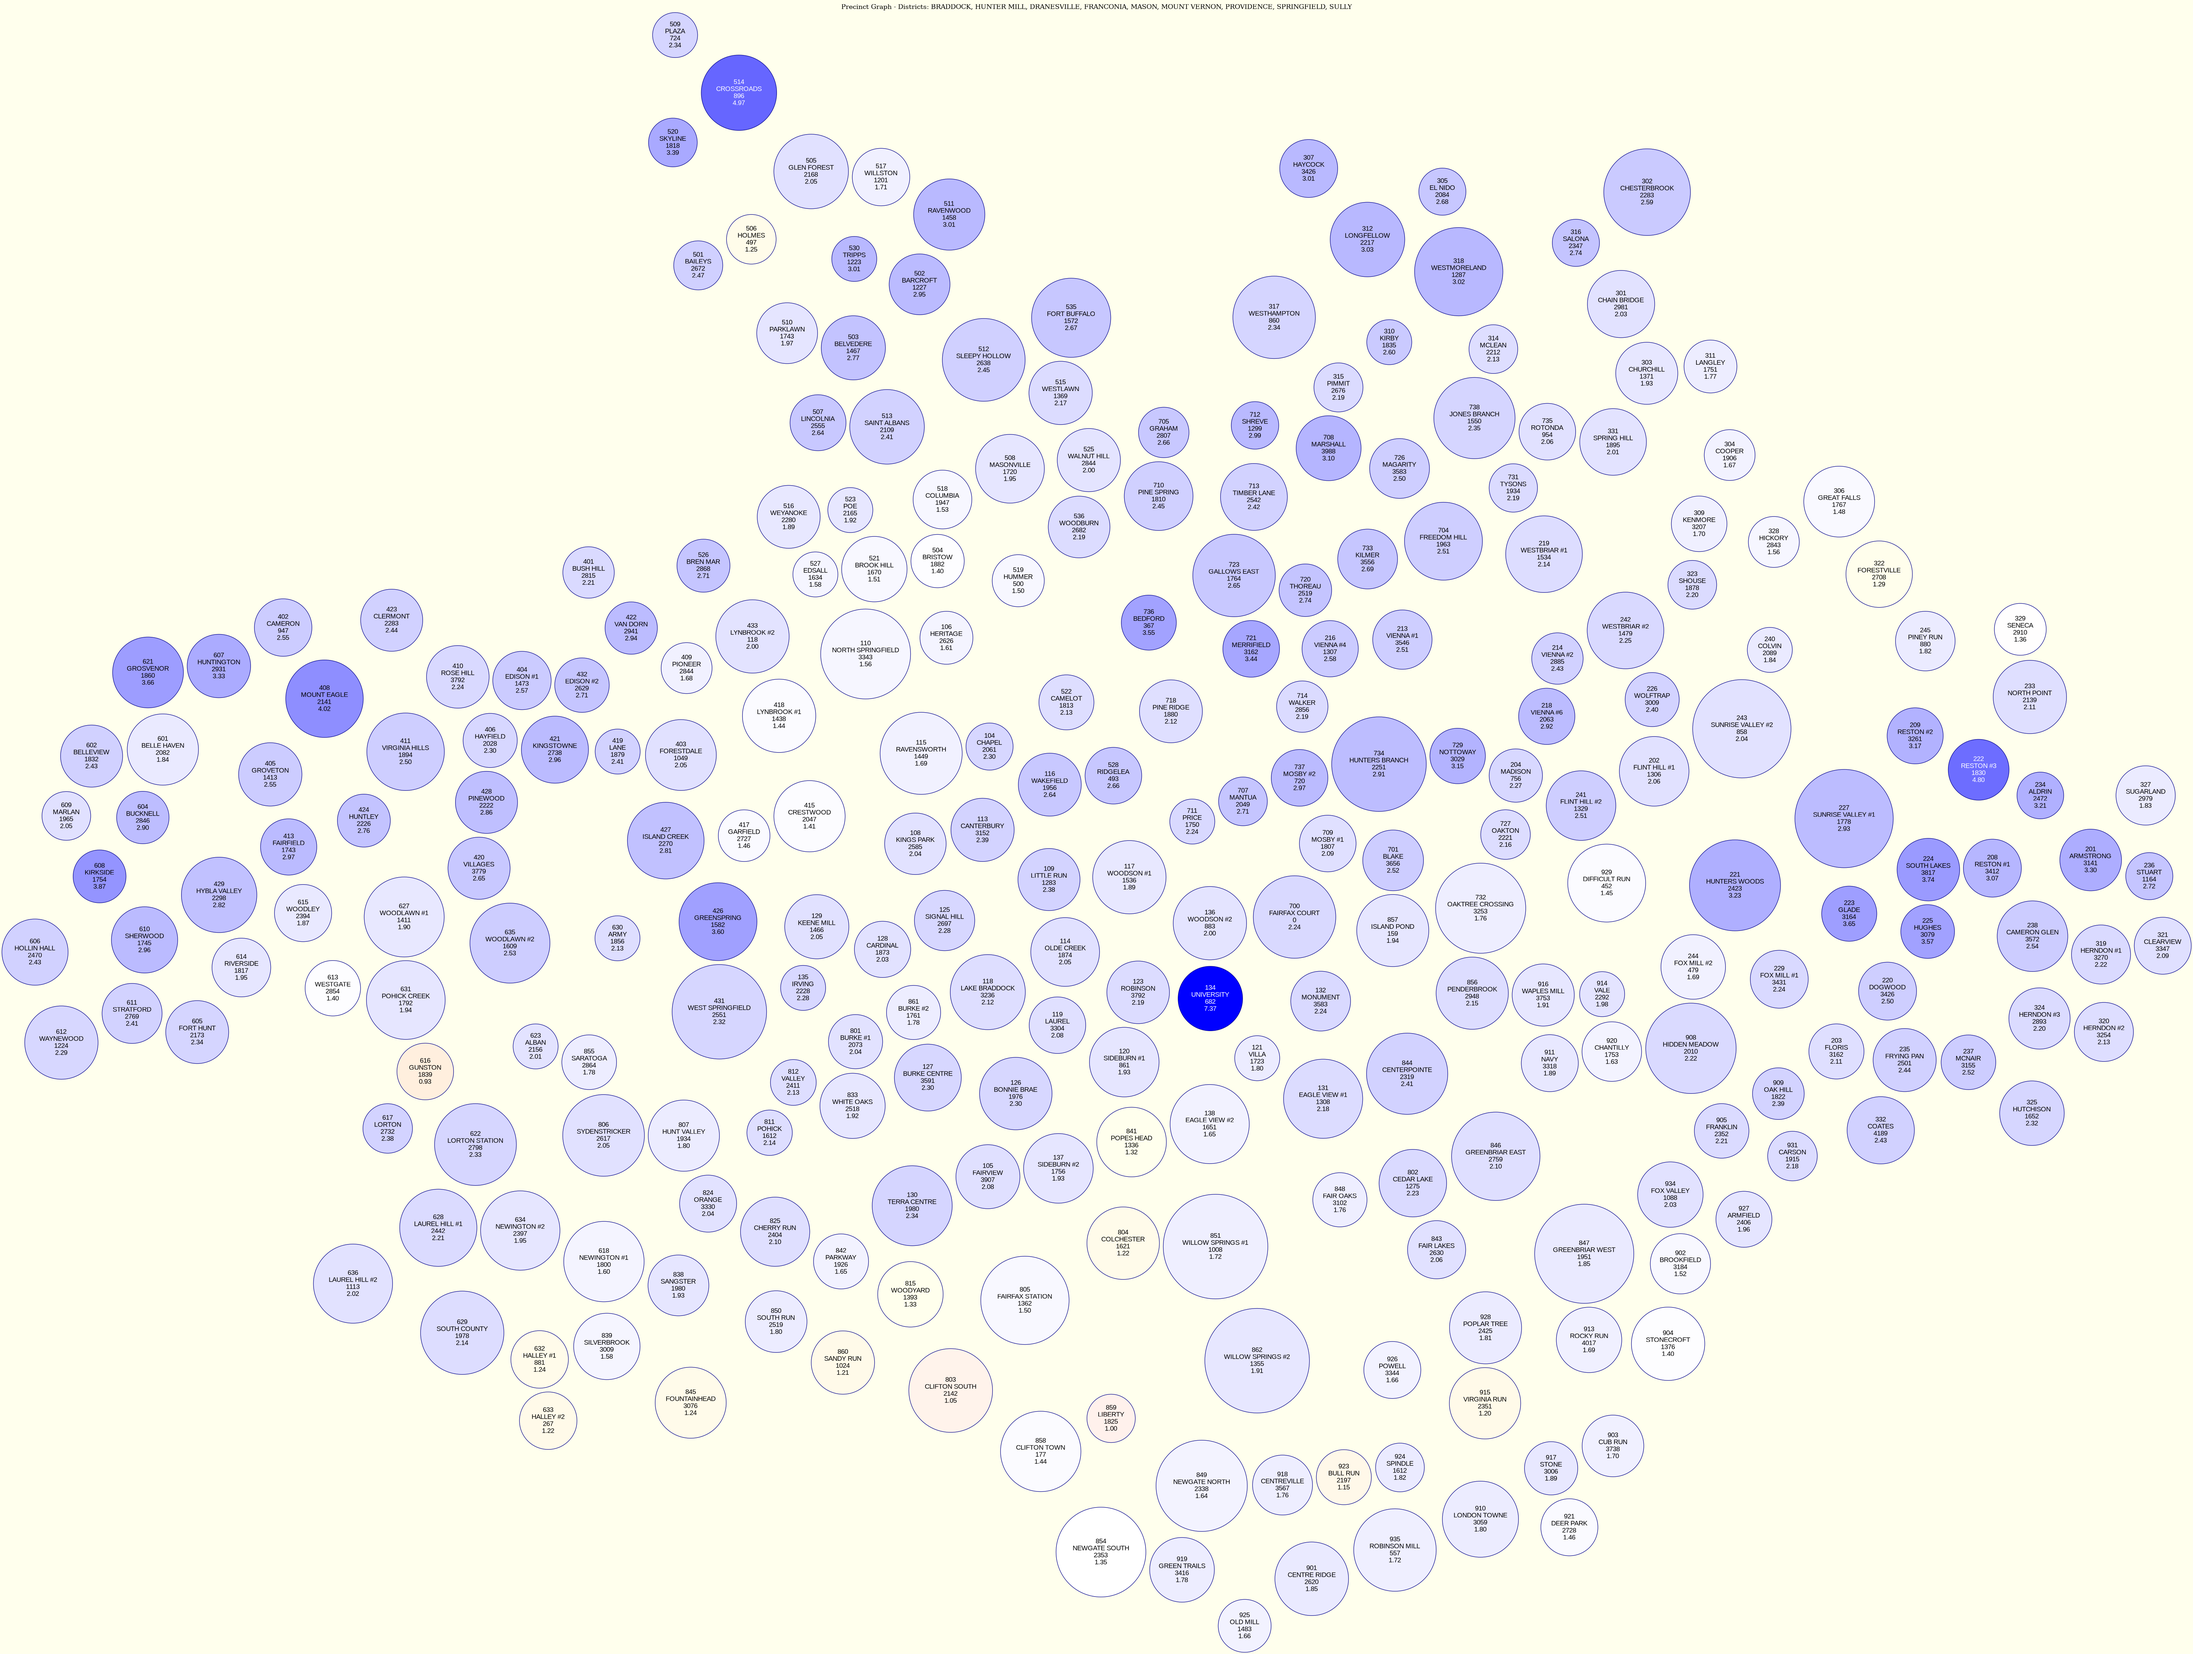
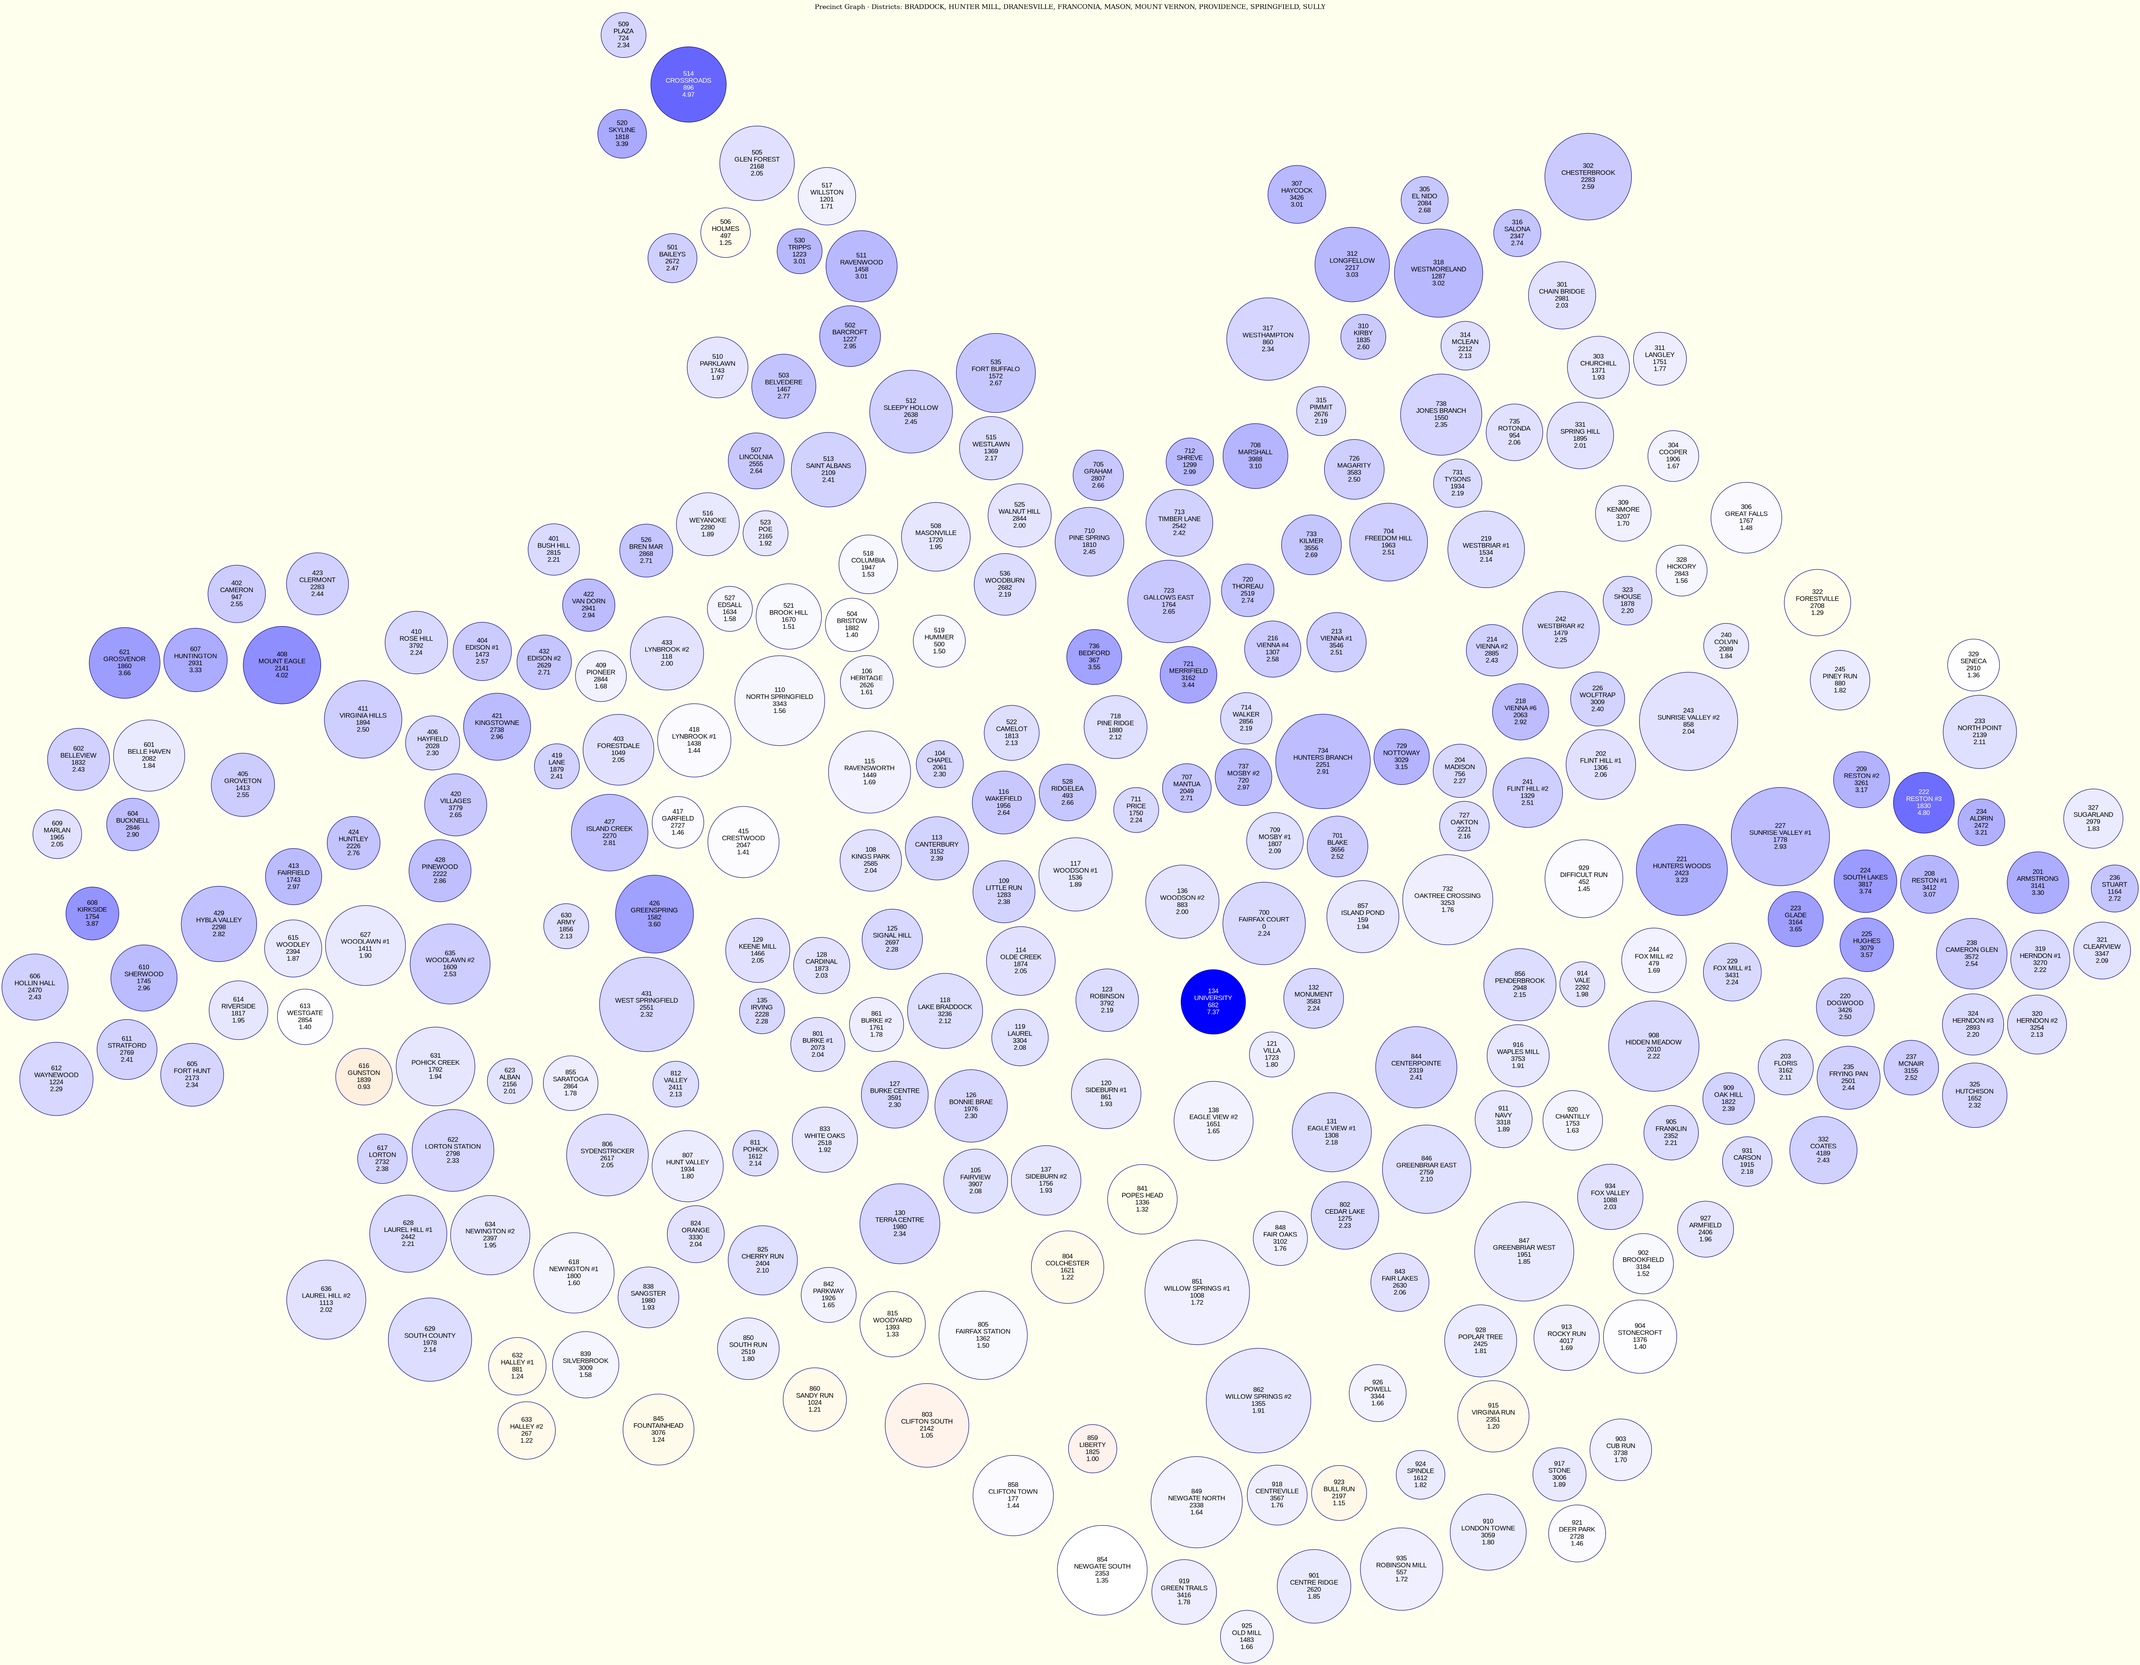
Add beautify option to precinct graph layout for improved aesthetics

diff --git a/src/createPrecinctGraph.js b/src/createPrecinctGraph.js
@@ -3,6 +3,7 @@ const fs = require('fs');
 function createPrecinctGraph() {
     let graph = 'strict graph G {\n';
     graph += '    layout=sfdp;\n';
+    graph += '    beautify=true;\n';
     graph += '    splines=none;\n';
     graph += '    overlap=false;\n';
     graph += '    model=subset;\n';
